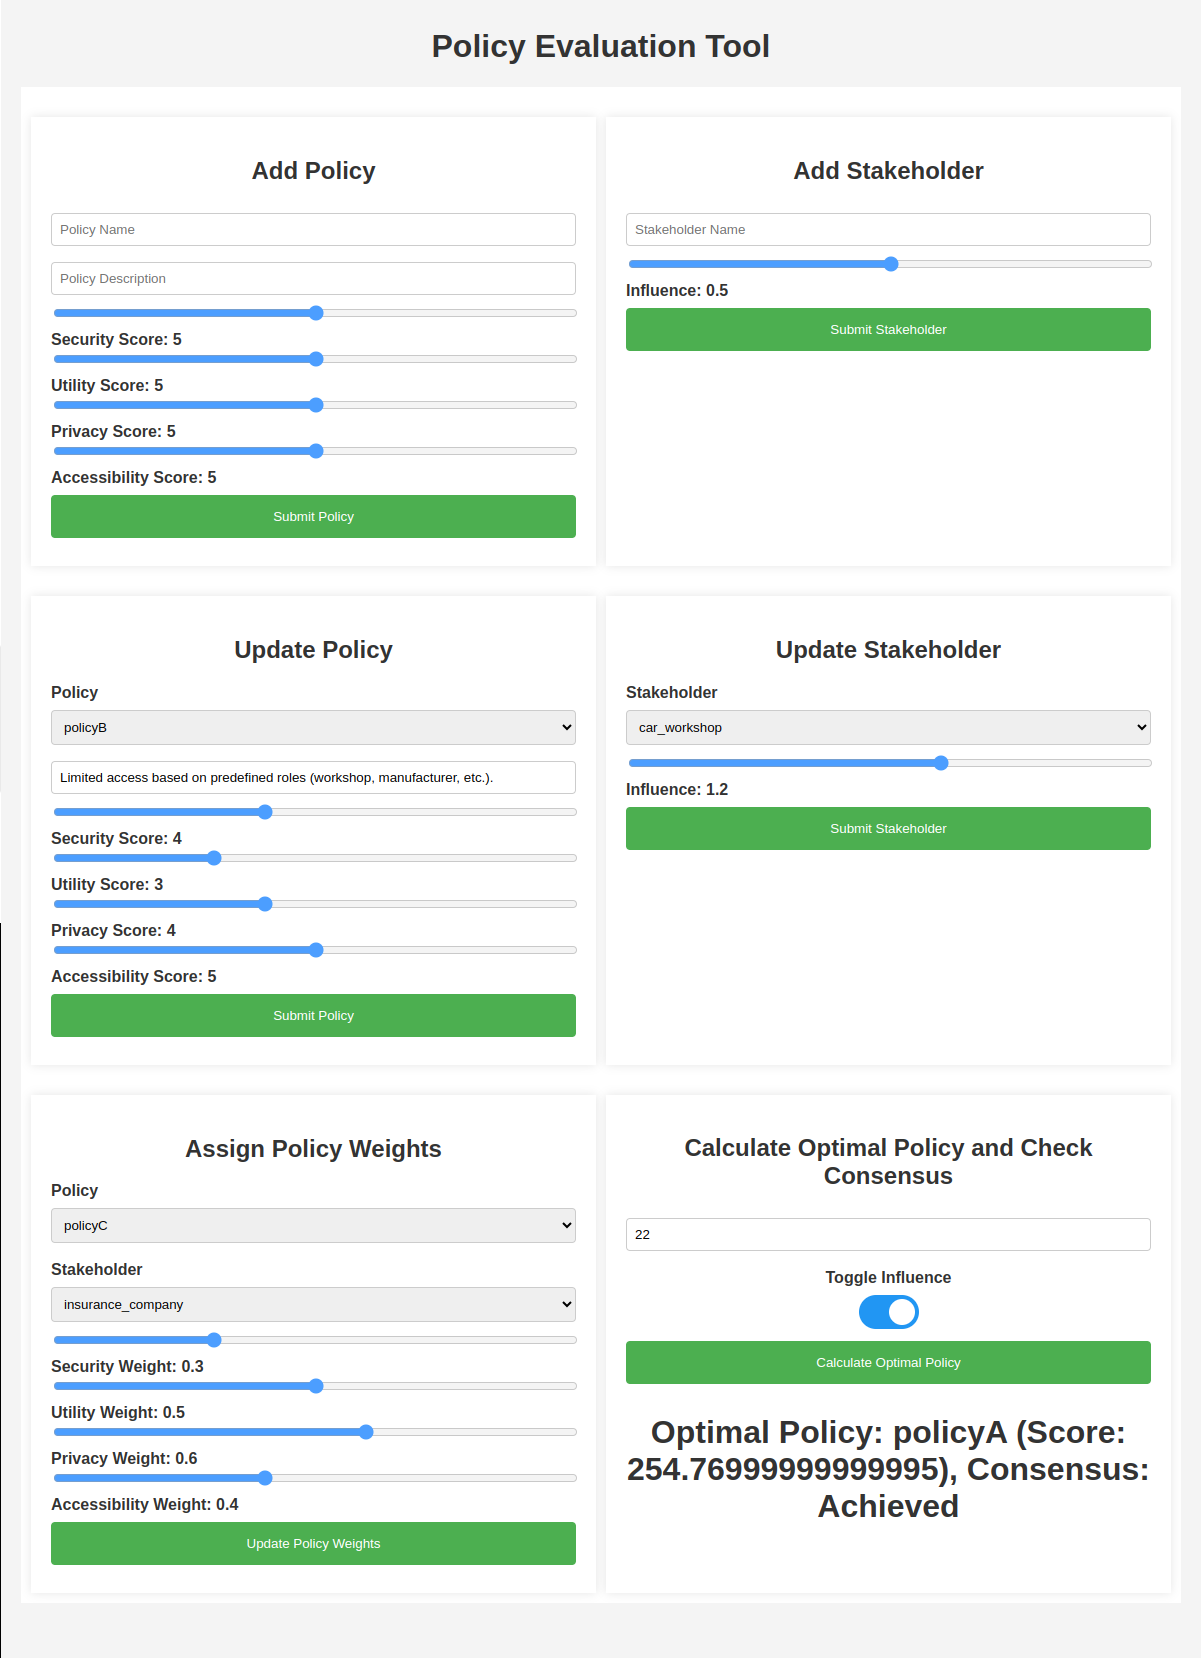
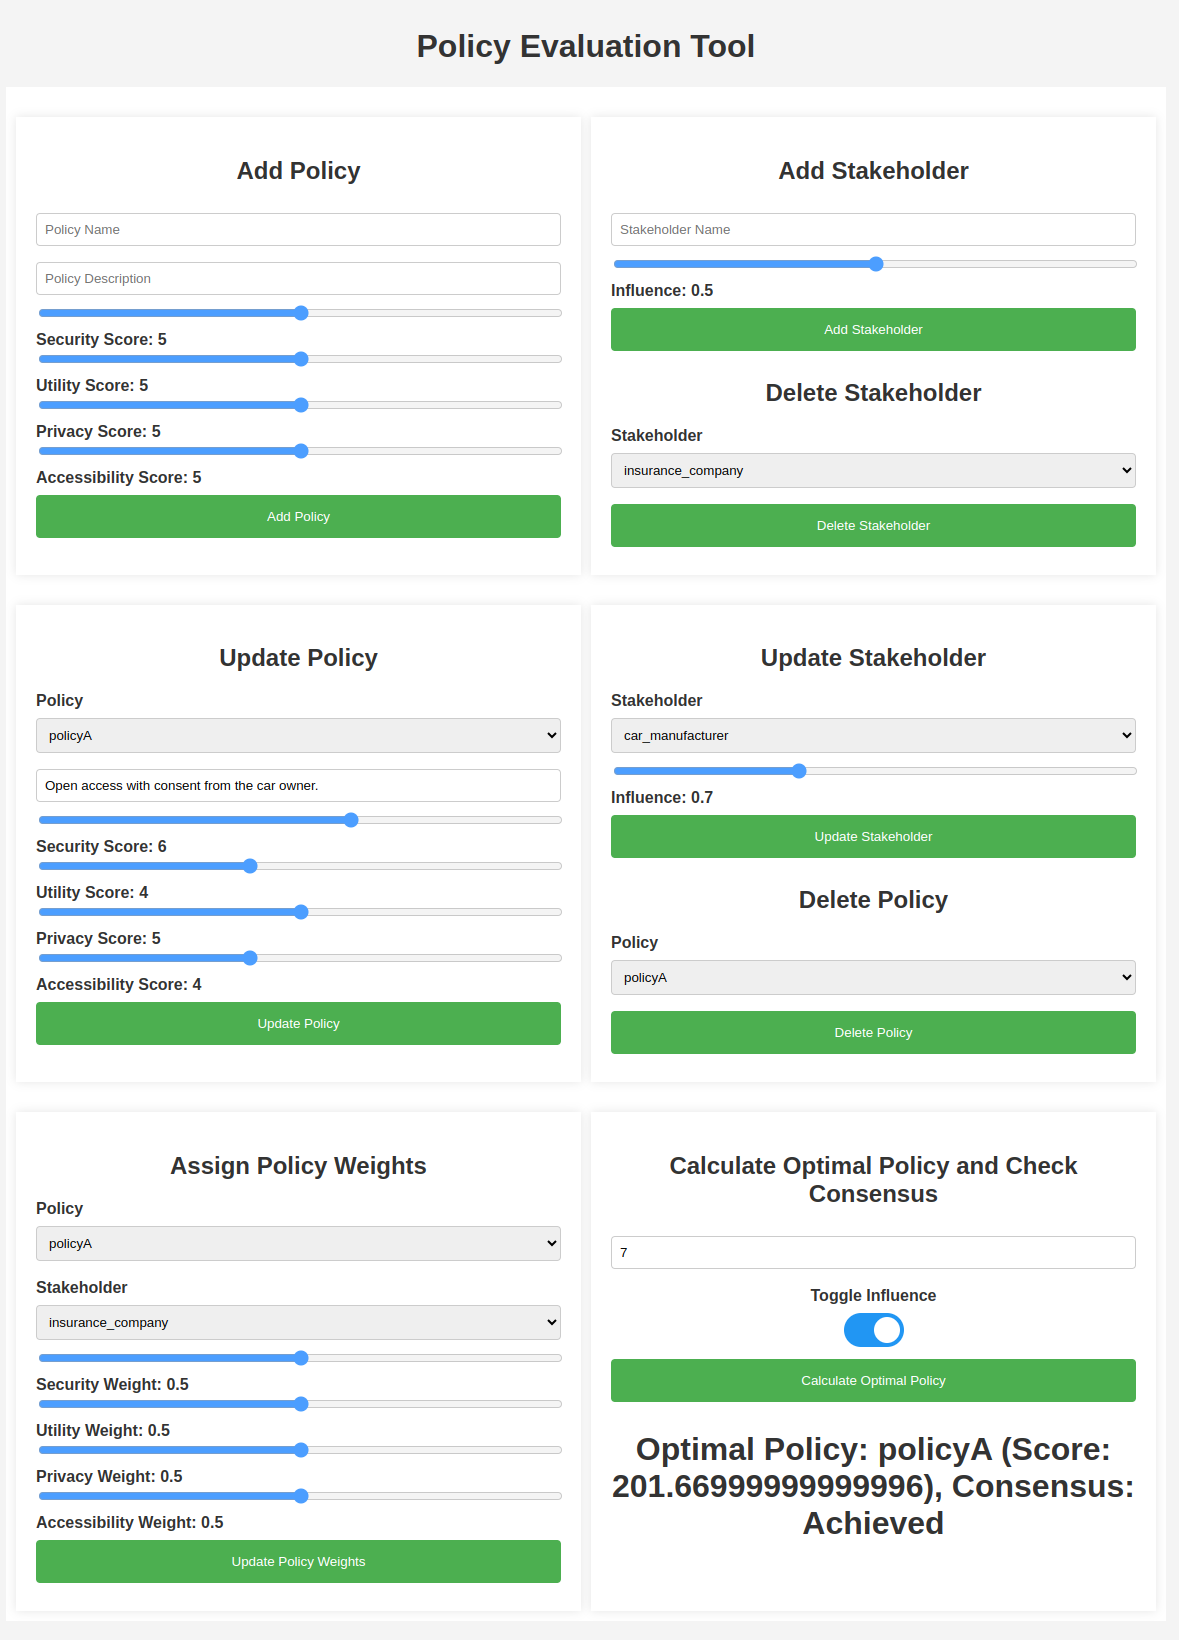
updating readme mentioning features

diff --git a/README.md b/README.md
@@ -34,6 +34,8 @@ The Policy Evaluation Tool is designed to assist in the evaluation and optimizat
 
 - **Add Policies**: Users can add new policies with specific attributes such as security, utility, privacy, and accessibility scores.
 - **Add Stakeholders**: Users can add stakeholders and define their influence levels.
+- **Update Policies & Stakeholders**: Users can update policies and stakeholders.
+- **Delete Policies & Stakeholders**: Users can delete policies and stakeholders.
 - **Assign Weights**: Assign weights to different policy attributes from the perspective of each stakeholder.
 - **Calculate Optimal Policy**: Calculate which policy has the highest aggregate utility based on the weights assigned by all stakeholders.
 - **Check Consensus**: Check if the optimal policy reaches a consensus among stakeholders based on a defined utility threshold.
